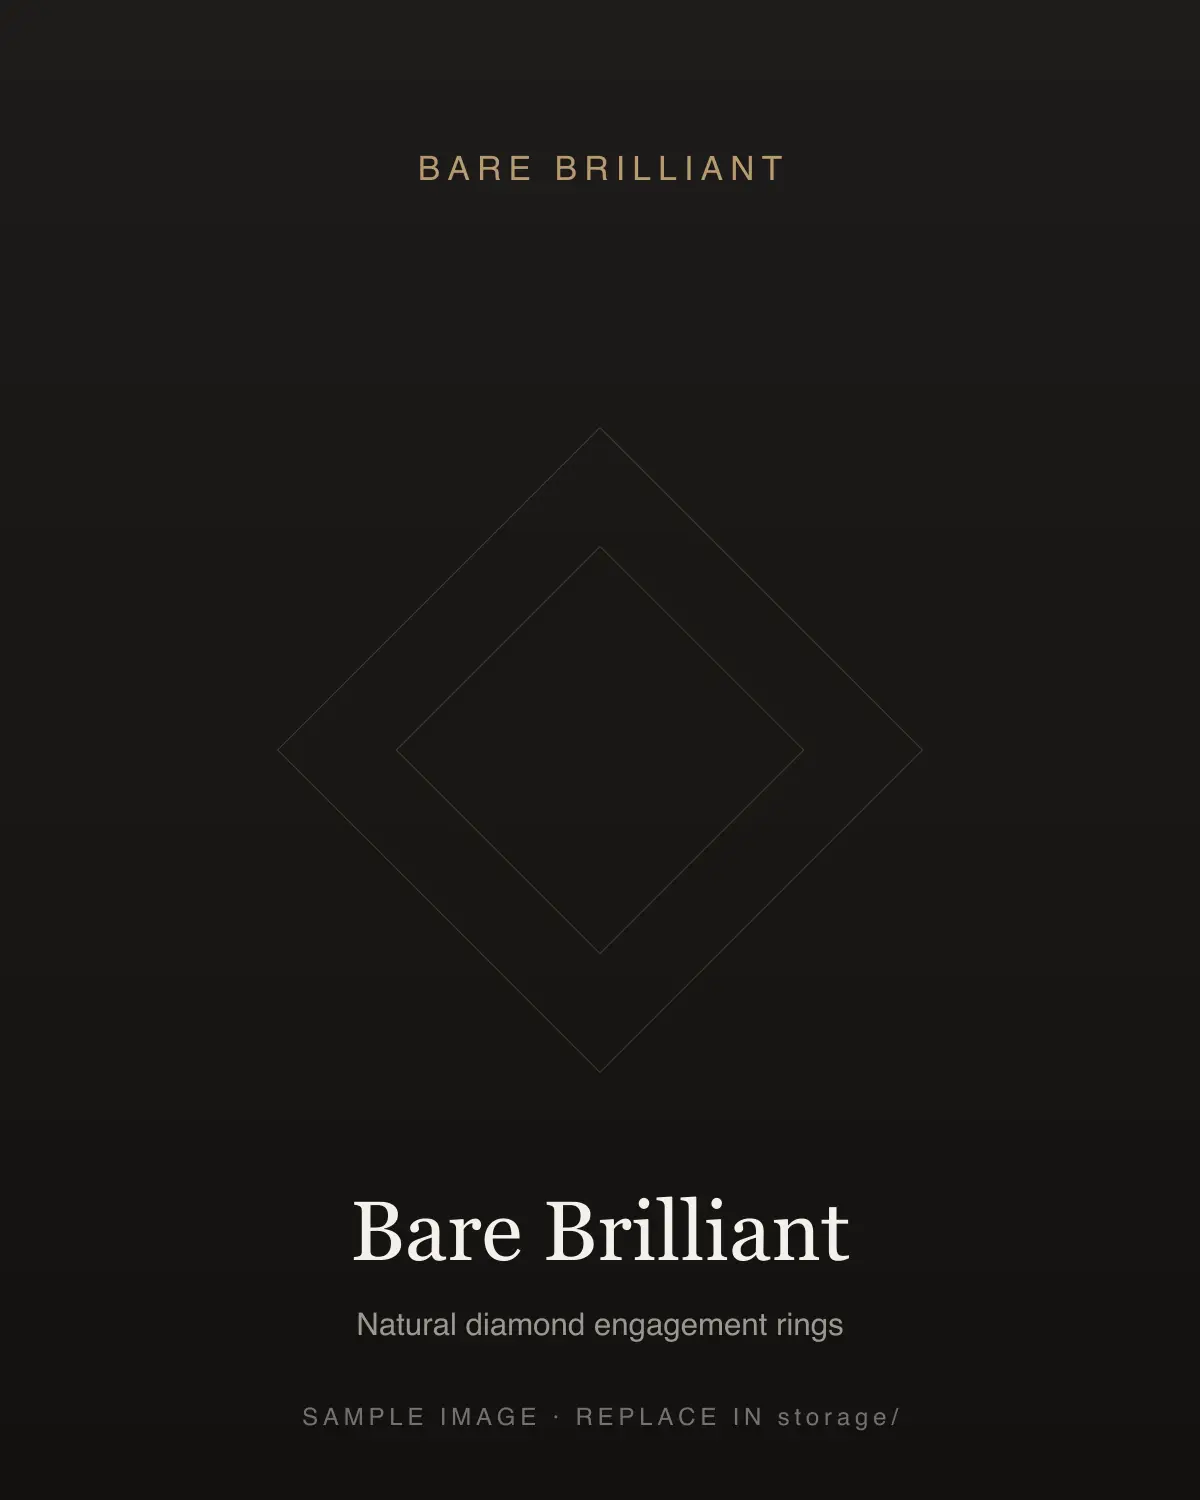
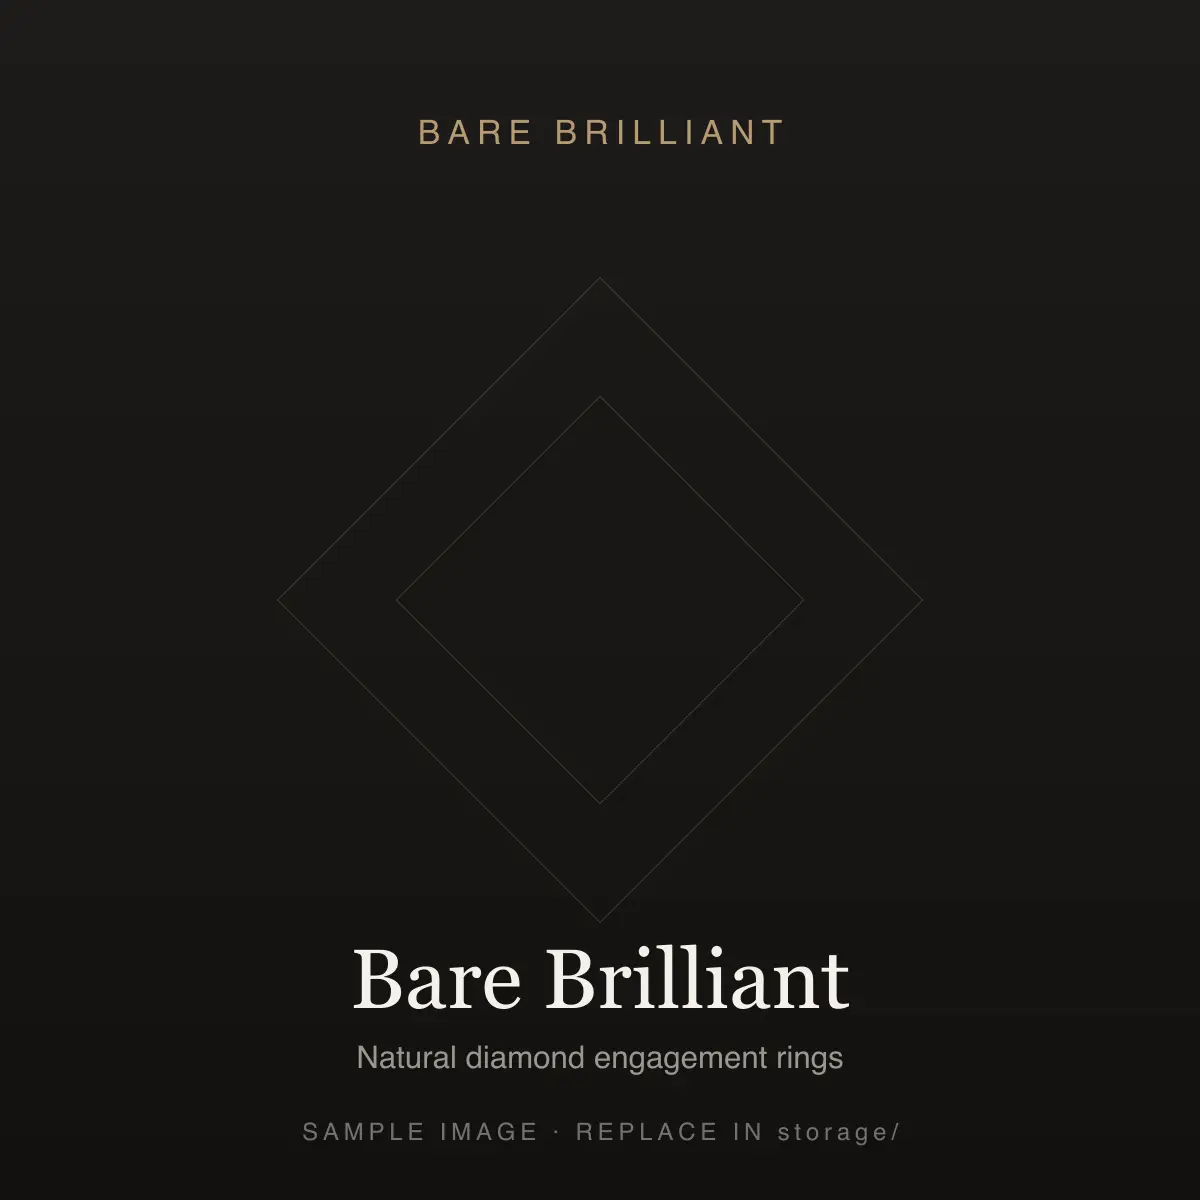
Product images: square (1:1) instead of 4:5 portrait
Product photography is mostly square, so all image containers switch to
aspect-ratio 1/1 (catalog card, PDP stage + thumbs, cart/checkout/shortlist
thumbs) and img width/height attrs match. object-fit: cover was already in
place, so the occasional off-square shot still center-crops cleanly.

Sample media regenerated at 1200x1200 (thumb) and 1600x1600 (gallery);
catalog.json + product JSONs updated to the new filenames.

diff --git a/storefront/src/pages/ProductPage.jsx b/storefront/src/pages/ProductPage.jsx
@@ -105,7 +105,7 @@ export default function ProductPage() {
               src={gallery[imgIx]?.url || PLACEHOLDER_IMAGE}
               alt={gallery[imgIx]?.alt || product.name}
               width="1600"
-              height="2000"
+              height="1600"
               onError={(e) => {
                 if (e.currentTarget.src !== PLACEHOLDER_IMAGE) e.currentTarget.src = PLACEHOLDER_IMAGE;
               }}
@@ -122,7 +122,7 @@ export default function ProductPage() {
                   aria-label={`View image ${i + 1}`}
                   onClick={() => setImgIx(i)}
                 >
-                  <img src={m.url} alt="" width="160" height="200" loading="lazy" />
+                  <img src={m.url} alt="" width="160" height="160" loading="lazy" />
                 </button>
               ))}
             </div>

diff --git a/storefront/src/components/ProductCard.jsx b/storefront/src/components/ProductCard.jsx
@@ -39,7 +39,7 @@ export default function ProductCard({ product, source = "engagement-listing" }) 
           alt={product.media?.alt || `${product.name} — ${product.shape} natural diamond engagement ring`}
           loading="lazy"
           width="1200"
-          height="1500"
+          height="1200"
           onError={(e) => {
             if (e.currentTarget.src !== PLACEHOLDER_IMAGE) e.currentTarget.src = PLACEHOLDER_IMAGE;
           }}

diff --git a/storefront/src/lib/storage.js b/storefront/src/lib/storage.js
@@ -8,7 +8,7 @@ export const STORAGE_BASE = RAW_BASE.replace(/\/+$/, "");
 
 export const PLACEHOLDER_IMAGE = `${STORAGE_BASE}/product_placeholder.webp`;
 
-// mediaUrl("products_media/0_a1b2c3_1200x1500.webp") -> absolute URL.
+// mediaUrl("products_media/0_a1b2c3_1200x1200.webp") -> absolute URL.
 // Passing an already-absolute URL or an empty value returns a safe result.
 export function mediaUrl(path) {
   if (!path) return PLACEHOLDER_IMAGE;

diff --git a/storefront/src/pages/ShortlistPage.jsx b/storefront/src/pages/ShortlistPage.jsx
@@ -56,7 +56,7 @@ export default function ShortlistPage() {
                 src={it.thumb ? mediaUrl(it.thumb) : PLACEHOLDER_IMAGE}
                 alt={it.name}
                 width="1200"
-                height="1500"
+                height="1200"
                 loading="lazy"
                 onError={(e) => {
                   if (e.currentTarget.src !== PLACEHOLDER_IMAGE) e.currentTarget.src = PLACEHOLDER_IMAGE;

diff --git a/storefront/src/pages/CartPage.jsx b/storefront/src/pages/CartPage.jsx
@@ -36,7 +36,7 @@ export default function CartPage() {
                   src={it.thumb ? mediaUrl(it.thumb) : PLACEHOLDER_IMAGE}
                   alt={it.name}
                   width="120"
-                  height="150"
+                  height="120"
                   onError={(e) => {
                     if (e.currentTarget.src !== PLACEHOLDER_IMAGE) e.currentTarget.src = PLACEHOLDER_IMAGE;
                   }}

diff --git a/storefront/src/pages/CheckoutPage.jsx b/storefront/src/pages/CheckoutPage.jsx
@@ -146,7 +146,7 @@ export default function CheckoutPage() {
                   src={it.thumb ? mediaUrl(it.thumb) : PLACEHOLDER_IMAGE}
                   alt=""
                   width="52"
-                  height="65"
+                  height="52"
                   onError={(e) => {
                     if (e.currentTarget.src !== PLACEHOLDER_IMAGE) e.currentTarget.src = PLACEHOLDER_IMAGE;
                   }}

diff --git a/storefront/src/pdp.css b/storefront/src/pdp.css
@@ -18,7 +18,7 @@
 
 /* gallery */
 .bb-pdp__stage {
-  aspect-ratio: 4 / 5;
+  aspect-ratio: 1 / 1;
   background: var(--bb-surface);
   border: 1px solid var(--bb-line);
   border-radius: var(--bb-radius);
@@ -37,7 +37,7 @@
 }
 .bb-pdp__thumb {
   width: 68px;
-  aspect-ratio: 4 / 5;
+  aspect-ratio: 1 / 1;
   padding: 0;
   border: 1px solid var(--bb-line);
   border-radius: 4px;

diff --git a/storefront/src/catalog.css b/storefront/src/catalog.css
@@ -111,7 +111,7 @@
 .bb-pcard__media {
   position: relative;
   display: block;
-  aspect-ratio: 4 / 5;
+  aspect-ratio: 1 / 1;
   background: var(--bb-surface);
   border: 1px solid var(--bb-line);
   border-radius: var(--bb-radius);

diff --git a/storefront/src/bag.css b/storefront/src/bag.css
@@ -40,7 +40,7 @@
 }
 .bb-bag__thumb {
   display: block;
-  aspect-ratio: 4 / 5;
+  aspect-ratio: 1 / 1;
   border: 1px solid var(--bb-line);
   border-radius: 4px;
   overflow: hidden;
